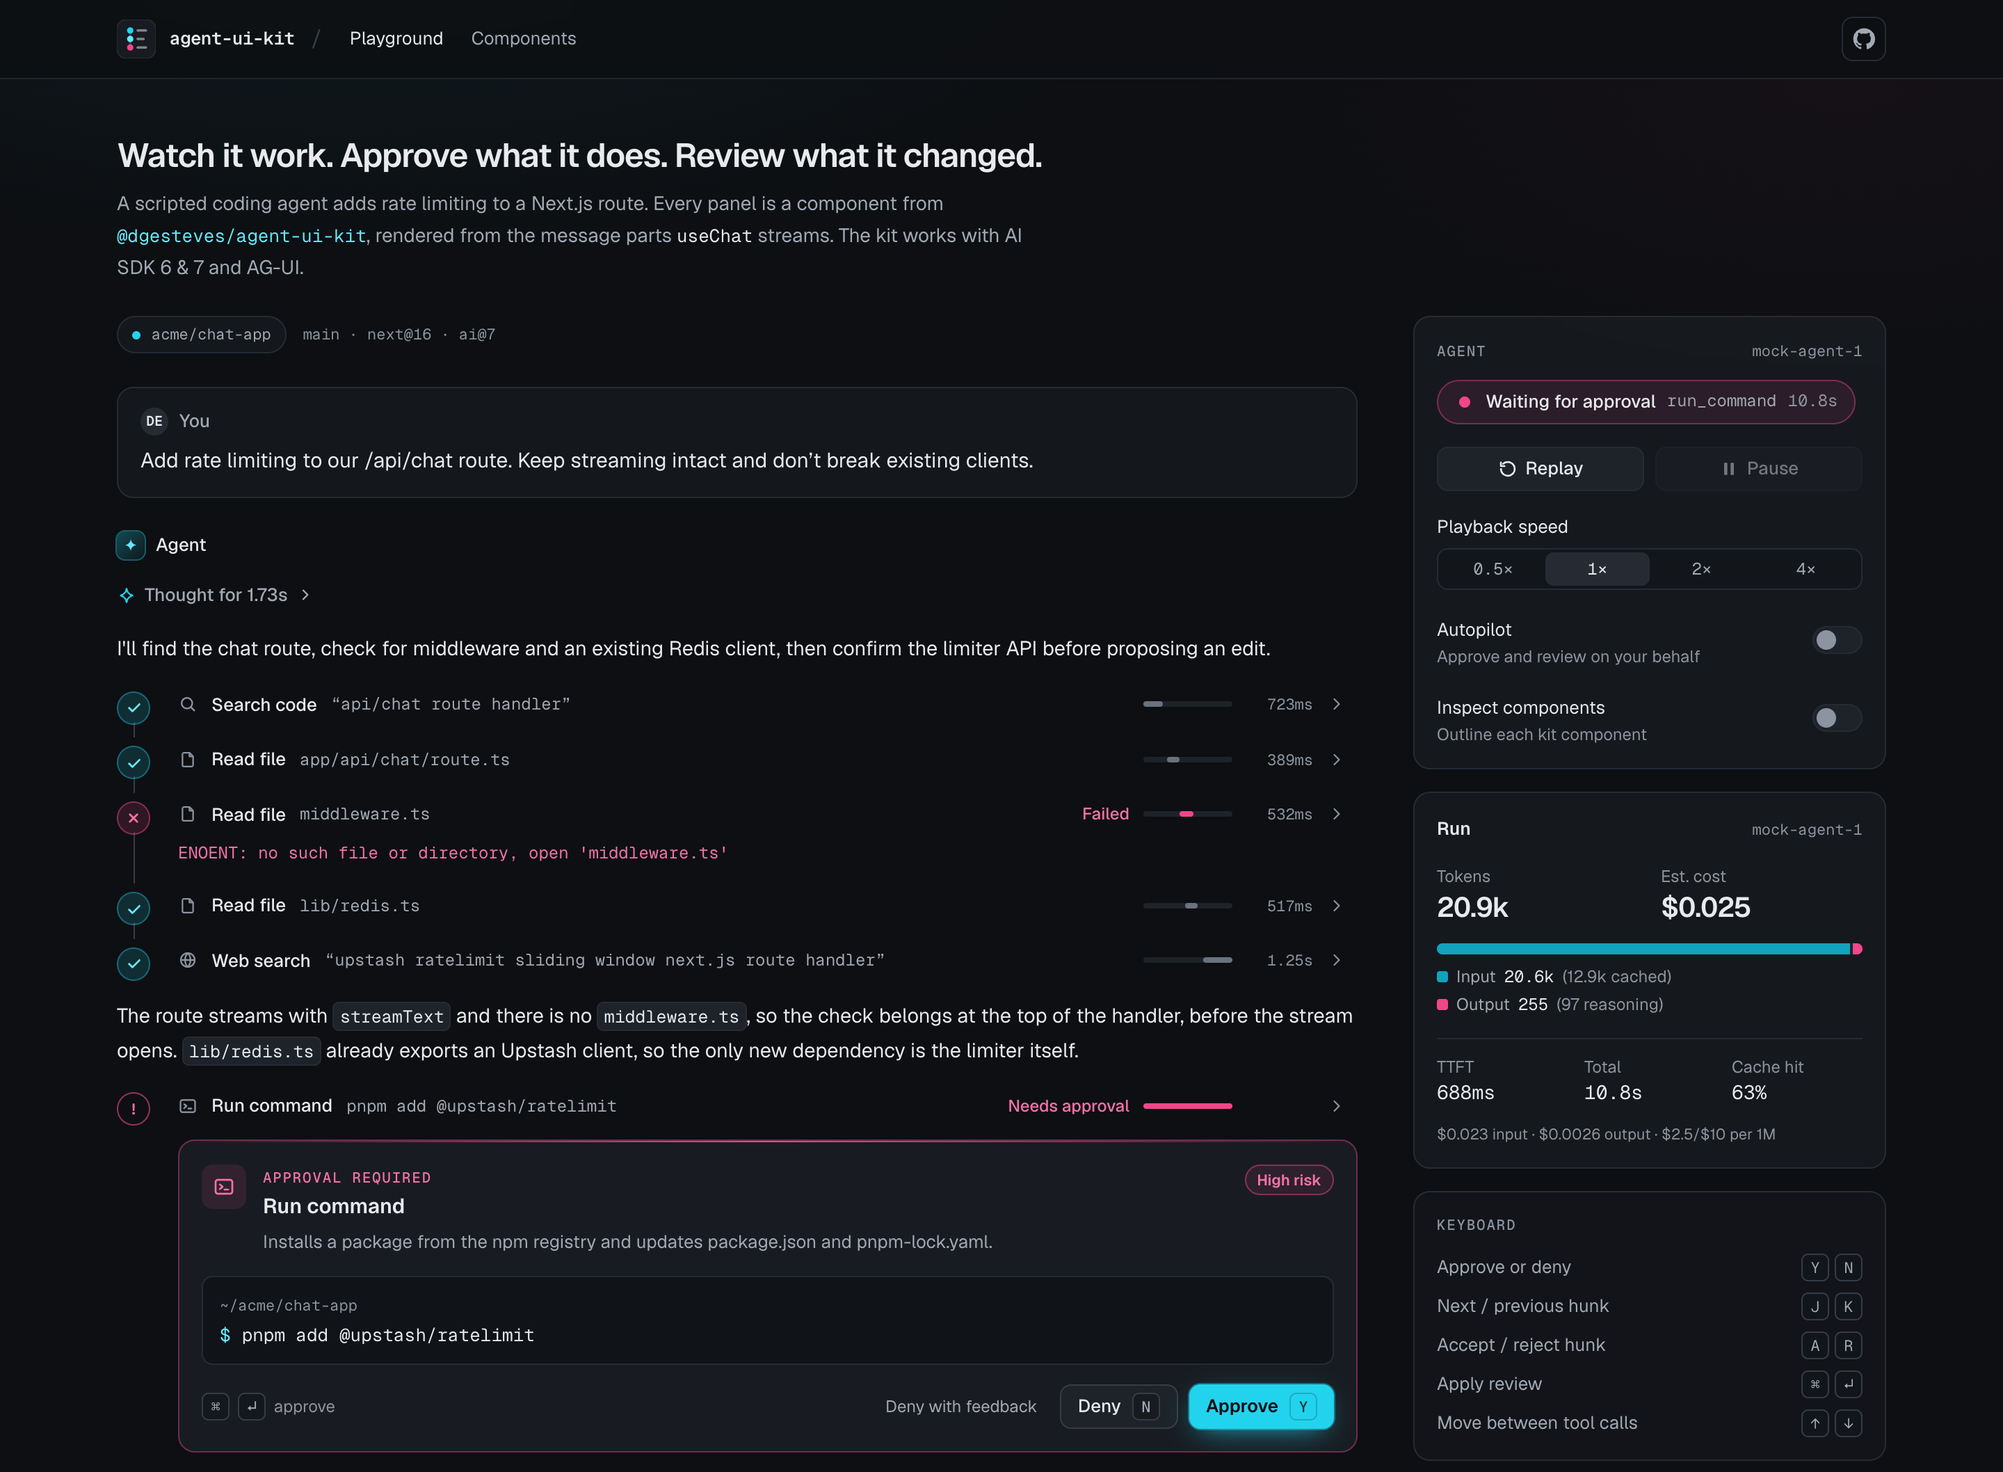
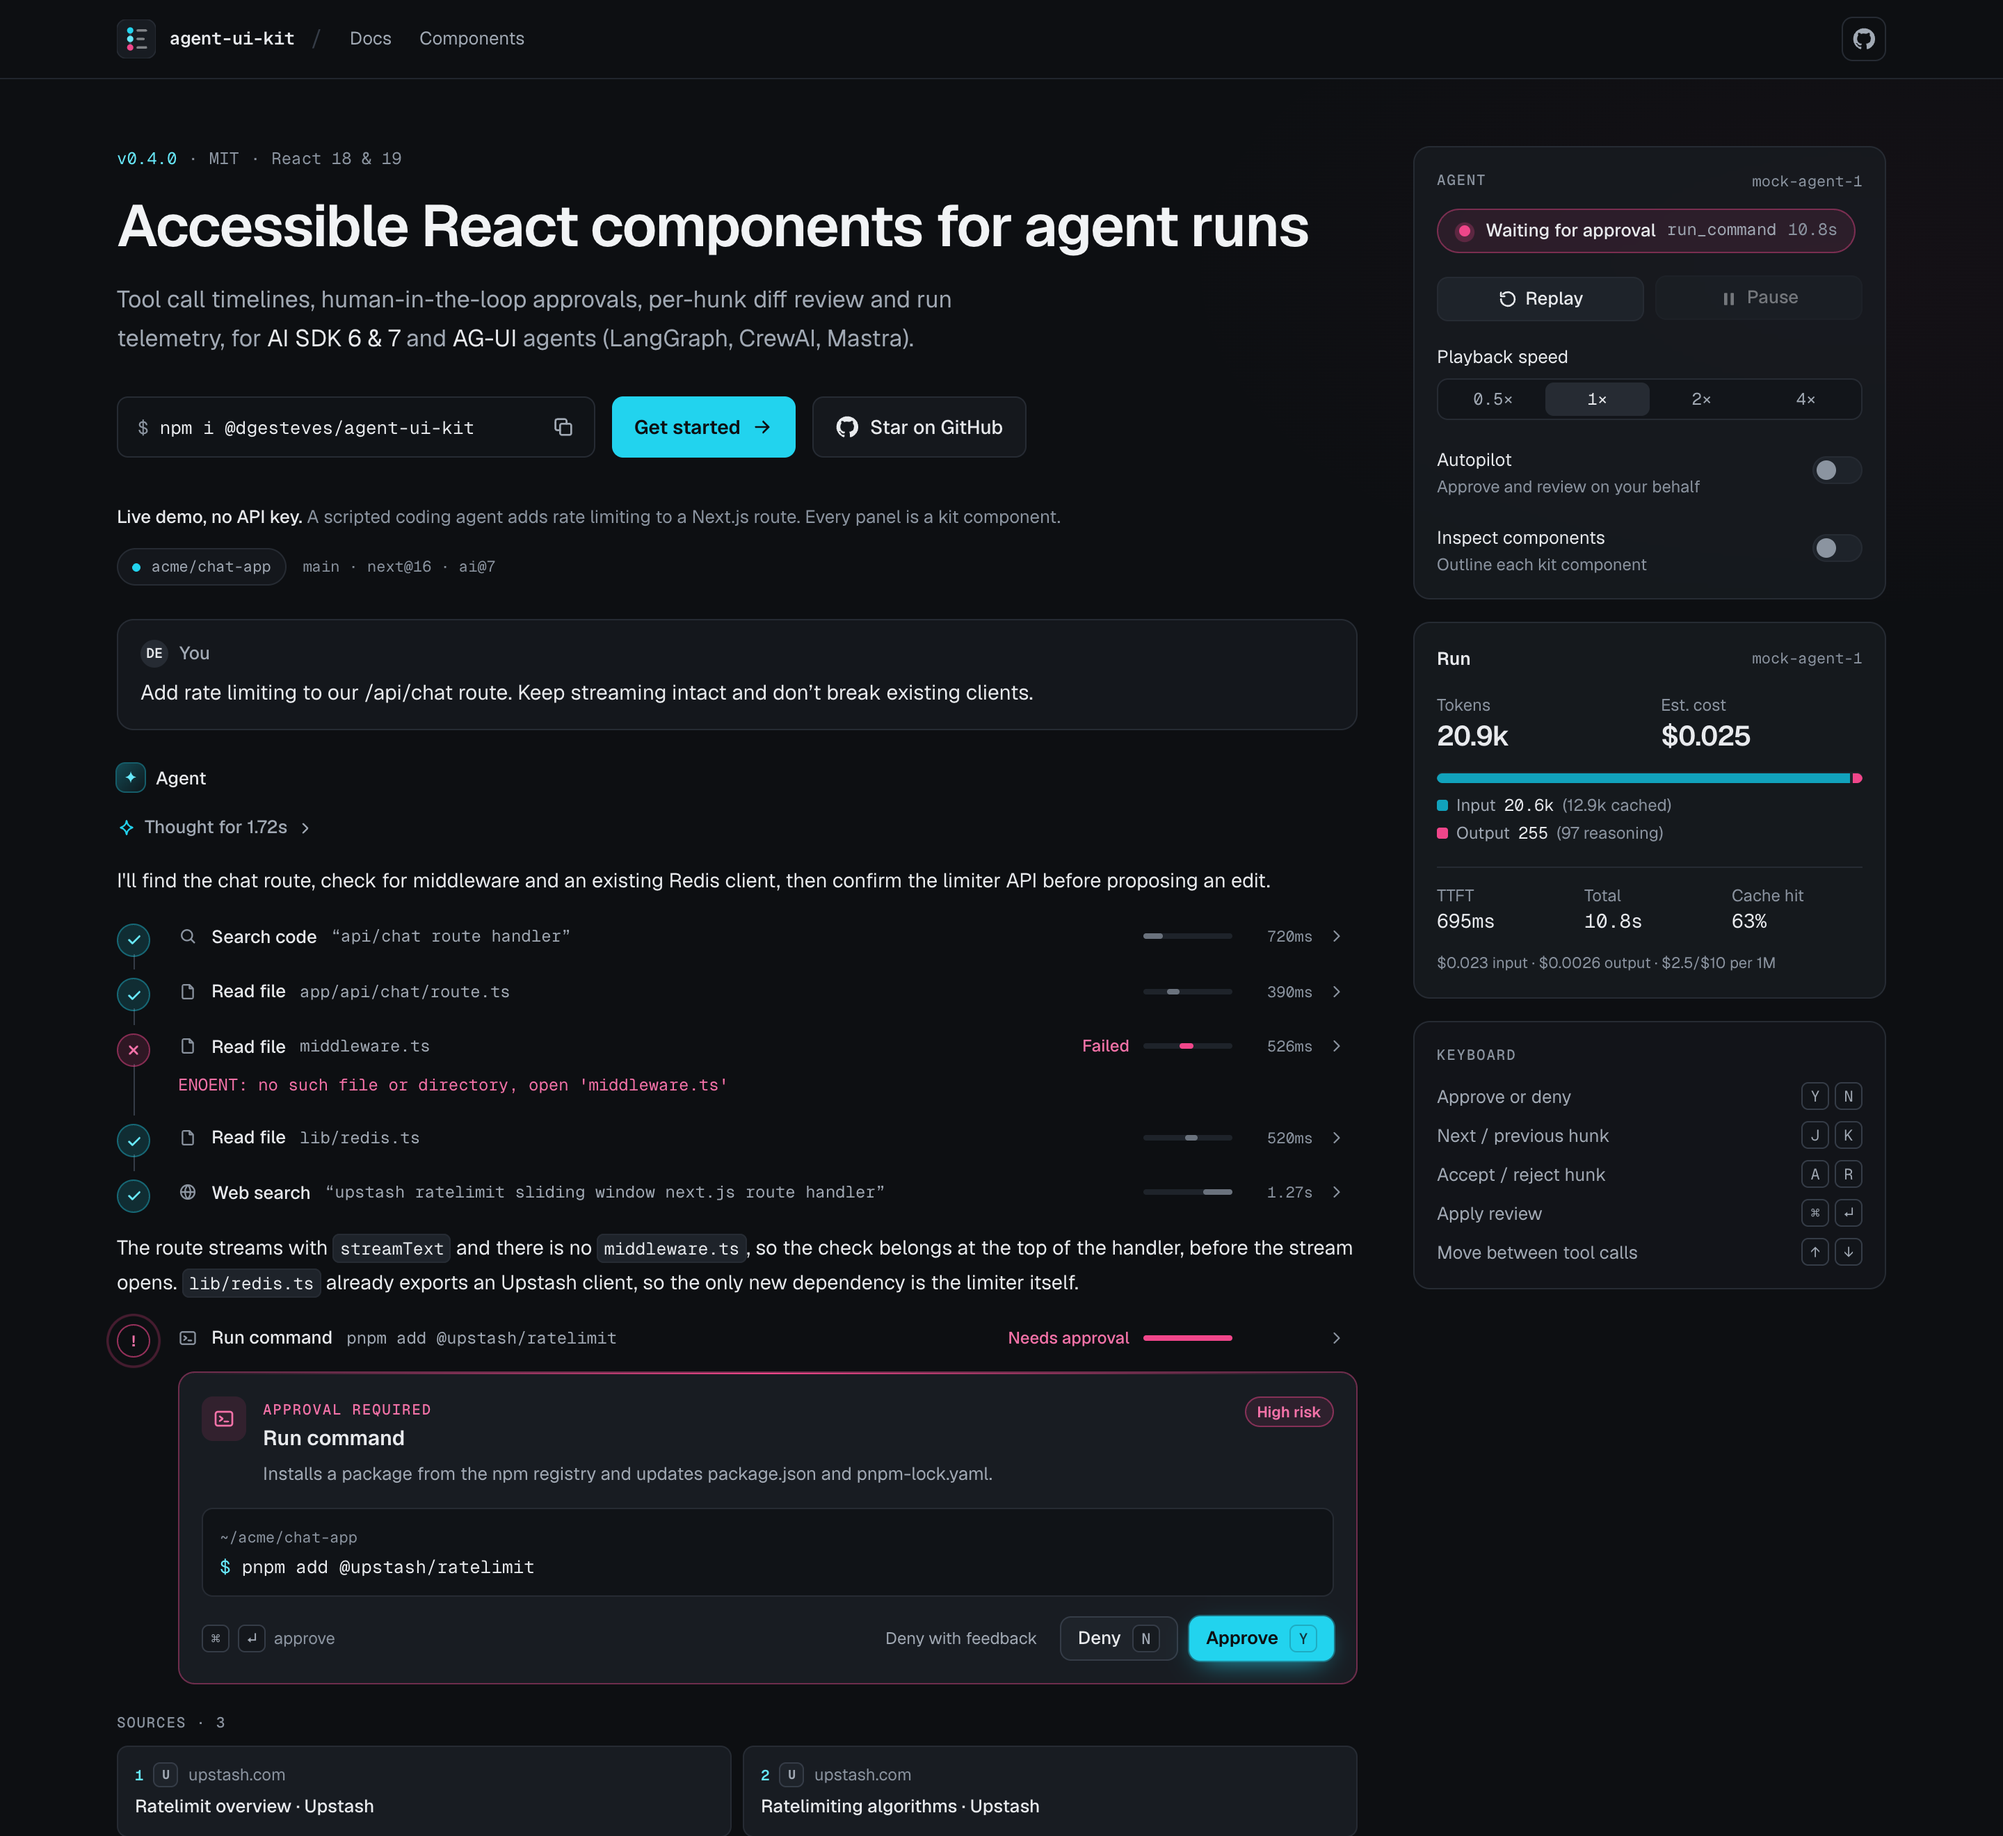
docs: link the website and the docs from the top of the README, and recapture the hero
The hero and the Inspect screenshot show the site's new headline, install command and calls to action.

diff --git a/README.md b/README.md
@@ -6,9 +6,9 @@ React components for the hard parts of agentic products: watching an agent work,
 [![npm](https://img.shields.io/npm/v/@dgesteves/agent-ui-kit?labelColor=0d0f12&color=22d3ee)](https://www.npmjs.com/package/@dgesteves/agent-ui-kit)
 [![License: MIT](https://img.shields.io/badge/license-MIT-22d3ee?labelColor=0d0f12)](./LICENSE)
 
-**[Open the live playground →](https://agent-ui-kit-demo.vercel.app)** A scripted agent run with replay, speed and keyboard controls. No API key needed. For coding agents, these docs are also at [`/llms.txt`](https://agent-ui-kit-demo.vercel.app/llms.txt) and [`/llms-full.txt`](https://agent-ui-kit-demo.vercel.app/llms-full.txt).
+**[Open the live playground →](https://agent-ui-kit-demo.vercel.app)** A scripted agent run with replay, speed and keyboard controls. No API key needed. **[Read the docs →](https://agent-ui-kit-demo.vercel.app/docs)** Getting started, AG-UI agents, and a page per component with its props, keyboard and theming hooks. For coding agents, the docs are also at [`/llms.txt`](https://agent-ui-kit-demo.vercel.app/llms.txt) and [`/llms-full.txt`](https://agent-ui-kit-demo.vercel.app/llms-full.txt), and every page as Markdown at its URL plus `.md`.
 
-<img src="docs/media/hero.png" width="100%" alt="The agent-ui-kit playground mid-run. A tool call timeline shows a code search, two file reads, a failed read of middleware.ts with its error inline, and a web search, each with a duration and a waterfall bar. Below, a high-risk approval card asks to run 'pnpm add @upstash/ratelimit' with Deny and Approve buttons and Y/N shortcuts. A sidebar shows the agent status 'Waiting for approval', playback controls, and a run meter with 20.9k tokens, $0.025 estimated cost, 688ms time to first token and a 63% cache hit rate.">
+<img src="docs/media/hero.png" width="100%" alt="The agent-ui-kit site mid-run. The headline reads Accessible React components for agent runs, with an npm install command, Get started and Star on GitHub. Below, a scripted agent's tool call timeline shows a code search, file reads, a failed read of middleware.ts with its error inline, and a web search, each with a duration and a waterfall bar, then a high-risk approval card asking to run 'pnpm add @upstash/ratelimit' with Deny and Approve buttons and Y/N shortcuts. A sidebar shows the agent status 'Waiting for approval', playback controls, and a run meter with 20.9k tokens, $0.025 estimated cost and a 63% cache hit rate.">
 
 Typed against AI SDK 6 and 7 `UIMessage` parts (`ai@^6.0.0 || ^7.0.102`), runs on React 18 and 19 (`react@^18.2.0 || ^19.0.0`), and tested against each in CI. [AG-UI](#ag-ui-agents) agents (LangGraph, CrewAI, Mastra, Pydantic AI and the rest of the protocol's integrations) render through an adapter. Ships as an npm package with a precompiled stylesheet, and as a shadcn registry. Keyboard-first, screen-reader announced, and audited with axe in jsdom and in a real browser.
 
